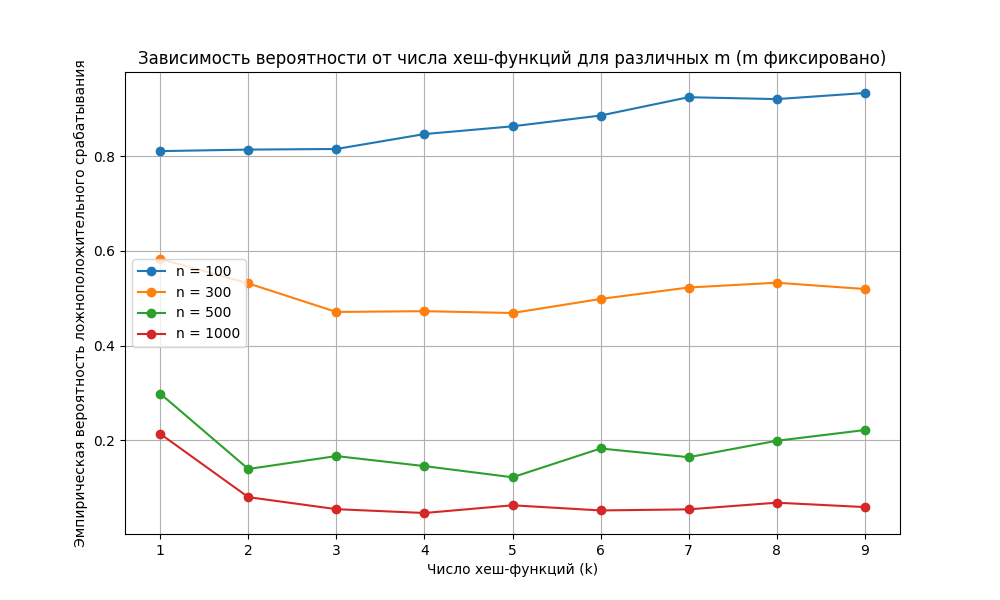
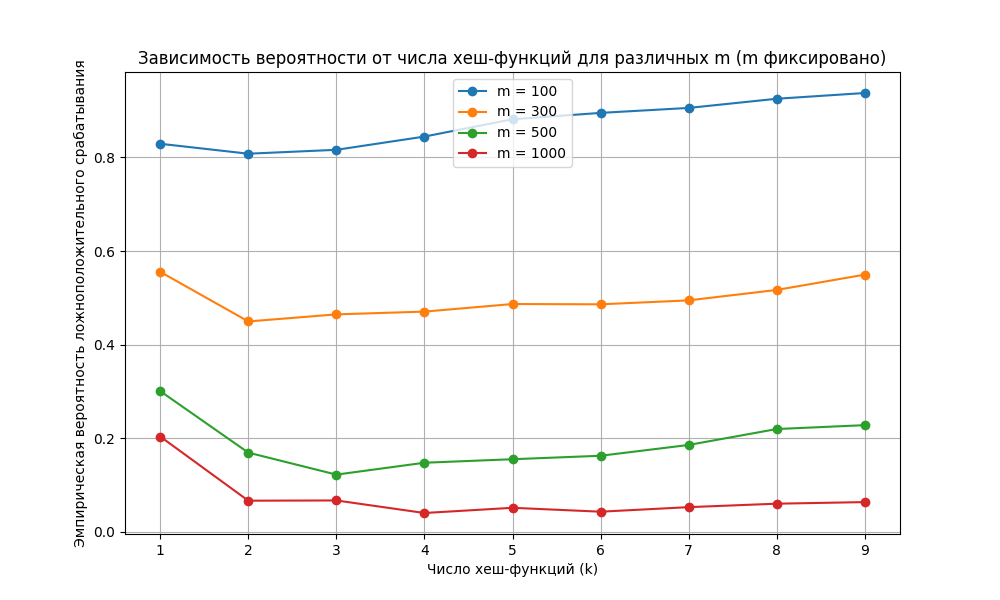
Minor improvements

diff --git a/BloomFilterAnalysis.py b/BloomFilterAnalysis.py
@@ -45,7 +45,7 @@ print(df)
 plt.figure(figsize=(10, 6))
 for m in m_values:
     subset = df[df["m"] == m]
-    plt.plot(subset["k"], subset["res"], marker='o', label=f"n = {m}")
+    plt.plot(subset["k"], subset["res"], marker='o', label=f"m = {m}")
 
 plt.xlabel("Число хеш-функций (k)")
 plt.ylabel("Эмпирическая вероятность ложноположительного срабатывания")
